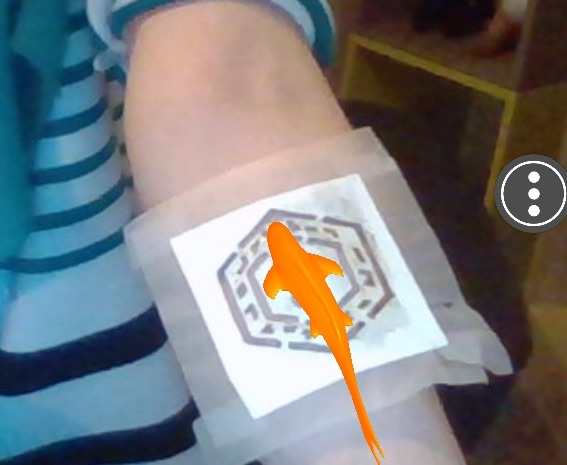
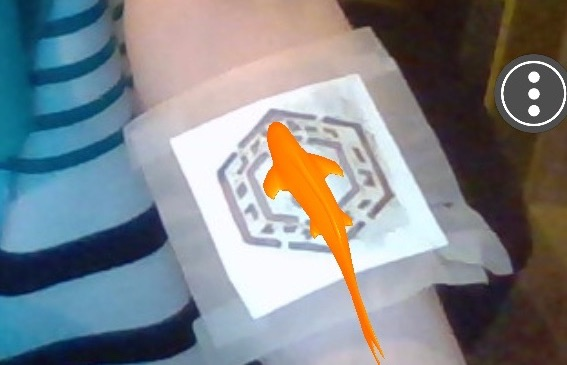
modify image

diff --git a/_posts/2020-03-12-rock-paper-scissors.md b/_posts/2020-03-12-rock-paper-scissors.md
@@ -10,7 +10,7 @@ demo_link: rock_paper_scissors.mp4
 
 *Rock Paper Scissors* is an one-week project realized by me with three classmates. The purpose of this workshop is to develop an app emphasizing augmented reality technology, using *Unity* and *Vuforia* framework.
 &nbsp;
-![Alt text](https://raw.githubusercontent.com/zemin-xu/zemin-xu.github.io/master/assets/images/rock_paper_scissors_hand.jpg "tattoo on back of a hand")
+![Alt text](https://raw.githubusercontent.com/zemin-xu/zemin-xu.github.io/master/assets/images/rock_paper_scissors_hand.jpg "tattoo on back of a hand"){:width="100%"}
 
 ## Concept
 
@@ -28,9 +28,9 @@ At that moment, we used illustrations on cartons as an alternative way. At the s
 &nbsp;
 We applied the technique of stencil as well. The pattern on stencil was successfully recognized, but the tattoo itself was not. After that, we captured a photo of an existant tattoo and uploaded it into database of *Vuforia*. The problem existed. Therefore, we drew a conclusion that *Vuforia* is suitable for markers on plane.
 &nbsp;
-![Alt text](https://raw.githubusercontent.com/zemin-xu/zemin-xu.github.io/master/assets/images/rock_paper_scissors_forearm_stencil.jpg "tattoo on back of a hand")
+![Alt text](https://raw.githubusercontent.com/zemin-xu/zemin-xu.github.io/master/assets/images/rock_paper_scissors_forearm_stencil.jpg "tattoo on back of a hand"){:width="100%"}
 &nbsp;
-![Alt text](https://raw.githubusercontent.com/zemin-xu/zemin-xu.github.io/master/assets/images/rock_paper_scissors_forearm.jpg "tattoo on back of a hand")
+![Alt text](https://raw.githubusercontent.com/zemin-xu/zemin-xu.github.io/master/assets/images/rock_paper_scissors_forearm.jpg "tattoo on back of a hand"){:width="100%"}
 &nbsp;
 Partners: [E.Meurice](https://www.linkedin.com/in/eva-meurice/), [A.Mougin](https://www.linkedin.com/in/arthur-mougin/), [J.Pigrée](https://www.linkedin.com/in/jean-baptiste-pigrée-876087110/)
 &nbsp;
